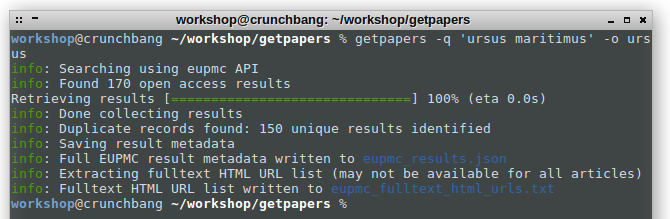
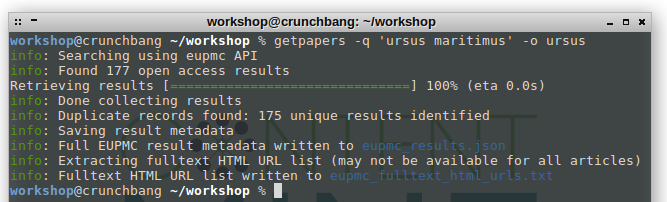
updated getpapers-tutorial

Changed region(s): [[0.0, 0.0297, 0.9895, 0.9802]]

diff --git a/software-tutorials/getpapers/README.md b/software-tutorials/getpapers/README.md
@@ -11,7 +11,7 @@ This tutorial covers the installation of getpapers, demonstrates how to construc
 1. [Tutorial](#tutorial)
   1. [Construct a simple query and compare results](#construct-a-simple-query-and-compare-results)
   1. [Getting pdfs and other files](#getting-pdfs-and-other-files)
-  1. [Complex queries for EPMC](#complex-queries-for-epmc)
+  1. [Complex queries for EPMC](#complex-queries-for-europepmc)
 1. [Summary and next steps](#summary-and-next-steps)
 
 ## Description
@@ -35,7 +35,7 @@ getpapers automates the search and download process and helps in building an ini
 
 ### Installation
 
-Open a terminal and type: `getpapers --version` at the commandline. If `0.4.1` appears, getpapers is installed, you can skip this section.
+Open a terminal and type: `getpapers --version` at the commandline. If a version number gets printed, getpapers is installed, you can skip this section.
 
 To install it within the ContentMine virtual machine:
 ```
@@ -55,11 +55,7 @@ In this tutorial we will mainly use open access literature from [Europe PMC](htt
 
 ## Tutorial
 
-After starting the VM, we open a terminal and navigate to the getpapers folder:
-
-```
-cd getpapers
-```
+After starting the VM, we open a terminal and start in the workshop folder.
 
 ![gpfolder](../../assets/images/software/getpapers/getpapers-folder.png)
 
@@ -91,7 +87,7 @@ head ursus/eupmc_fulltext_html_urls.txt
 
 The `eupmc_results.json` file contains metadata about each search results in the [JSON](https://en.wikipedia.org/wiki/JSON)-format. Metadata are e.g. a DOI, the title, authors, and additional bibliographic data.
 
-### 3. Getting pdfs and other files
+### Getting pdfs and other files
 
 Until now, our queries only resulted in metadata and a list of urls. PDF files can be retrieved by adding a `-p` flag to the query. Please note, that a **generic query** will result in a **large number of results** and long processing times. Unless intended, you can cancel a search with `Ctrl+C` in the command line.
 
